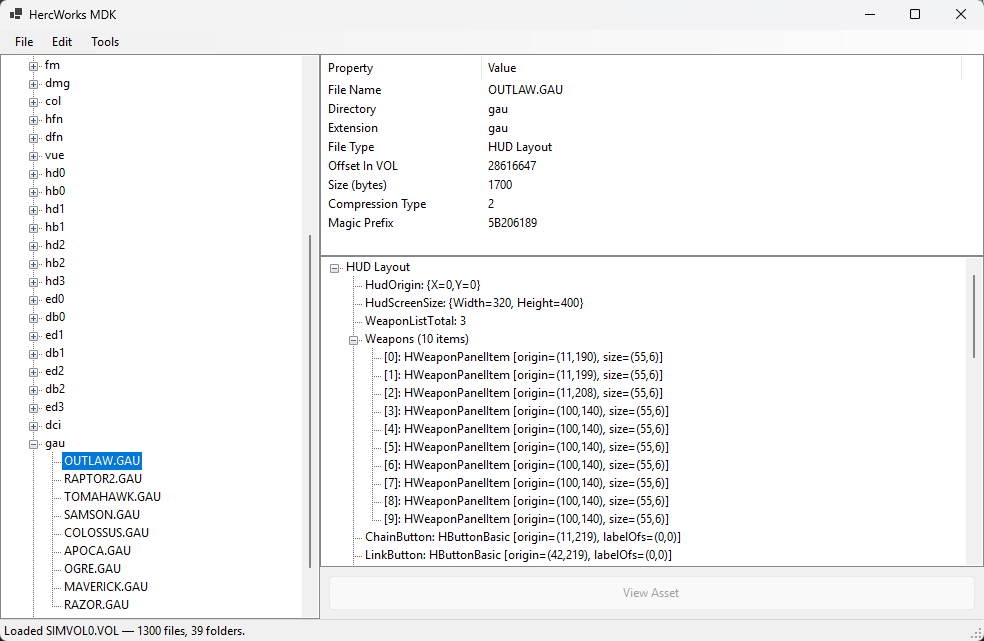
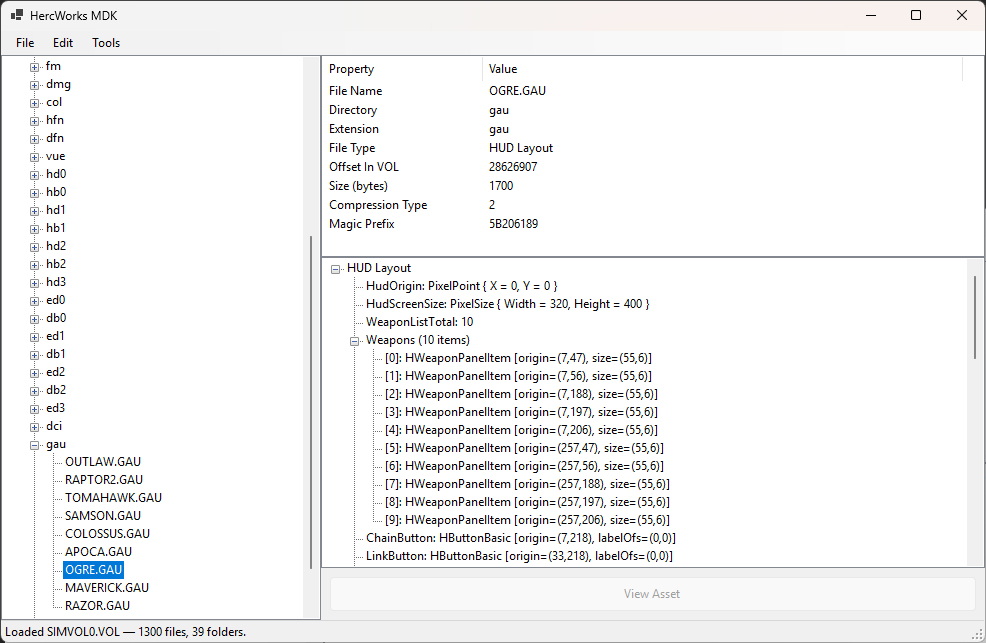
Updated README with screenshots (Kevin)

diff --git a/README.MD b/README.MD
@@ -1,10 +1,80 @@
-# HercWorks CSharp
+# The HERCULAN Engine
 
-This repository is a rewrite and extension of [herc-works-mdk](https://github.com/Subject9x/herc-works-mdk), originally by Subject9x. HercWorks has been rewritten in C#/.NET with Windows Forms GUI. The purpose of this project is to reverse-engineer the file formats used in the Windows 95 game _Earthsiege II_, developed by Dynamix and published by Sierra in 1996.
+The HERCULAN Engine is an effort to fully reverse-engineer the classic video game _[Earthsiege 2](https://en.wikipedia.org/wiki/Earthsiege_2)_ (developed by Dynamix and published by Sierra in 1996) and port it to modern operating systems. This engine is still in the very early stages of development; there is no specific development timetable.
 
-HercWorks CSharp builds upon the original Java library, fixing bugs, expanding the scope of the reverse-engineering work, and adding a graphical user interface. Unlike the original Java library, this repository does not support exporting data to JSON.
+## HercWorks CSharp
 
-I apologize to the Subject9x (developer of the original repository) for taking their work and continuing it in a completely different programming language; I just prefer C# and .NET to the Java ecosystem.
+A fundemental feature of the HERCULAN Engine is HercWorks CSharp, a toolset for viewing (and sometimes editing) data files from EarthSiege 2. HercWorks CSharp is a rewrite and extension of [herc-works-mdk](https://github.com/Subject9x/herc-works-mdk), originally by Subject9x. HercWorks has been rewritten in C#/.NET. HercWorks CSharp builds upon the original Java library, fixing bugs, expanding the scope of the reverse-engineering work, and adding a graphical user interface built with Windows Forms. Unlike the original Java library, this repository currently does not support exporting data to JSON.
+
+My great thanks to Subject9x (developer of the original repository) and any contributors (e.g. the Starsiege Community) for the initial reverse-engineering work that has made this possible. Also, I apologize for taking their work and continuing it in a completely different programming language!
+
+## The engine
+
+The HERCULAN Engine is intended to eventually be a playable cross-platform modern port of _Earthsiege 2_. Unlike many classic games which have been ported to modern operating systems, such as _Doom_, the source code for Earthsiege 2 has never been released. This means the HERCULAN Engine is not simply a matter of taking the original code and updating it for modern systems; instead, the game logic in its entirety has to be reconstructed through reverse-engineering.
+
+### Using the engine
+
+Earthsiege 2 is a copyrighted work. While a legal owner of the copyright has previously released the game for free, I do not have a license to distribute the original game files and they are not included in this repository. To use the HERCULAN Engine, you will need a copy of the original game files, which you can acquire from abandonware websites or by purchasing an original retail CD-ROM. I am not aware of any digital marketplace that sells Earthsiege 2.
+
+## Screenshots
+
+<div align="center">
+  <figure>
+    <img src="Images/VOL%20Browser.png" alt="VOL Browser" width="400">
+    <p><em>HercWorks UI for browsing VOL archives</em></p>
+  </figure>
+</div>
+
+<div align="center">
+  <figure>
+    <img src="Images/Campaign%20Resources%20Editor.png" alt="Campaign Resources Editor" width="400">
+    <p><em>Campaign Resources Editor</em></p>
+  </figure>
+</div>
+
+<div align="center">
+  <figure>
+    <img src="Images/DTS%20Viewer.png" alt="DTS Viewer" width="400">
+    <p><em>DTS (3D model) Viewer</em></p>
+  </figure>
+</div>
+
+<div align="center">
+  <figure>
+    <img src="Images/Herc%20Stats%20Editor.png" alt="Herc Stats Editor" width="400">
+    <p><em>Herc Stats Editor</em></p>
+  </figure>
+</div>
+
+<div align="center">
+  <figure>
+    <img src="Images/Texture%20Viewer.png" alt="Texture Viewer" width="400">
+    <p><em>Texture Viewer</em></p>
+  </figure>
+</div>
+
+<div align="center">
+  <figure>
+    <img src="Images/Mission%20Editor.png" alt="Mission Editor" width="400">
+    <p><em>An early version of the HERCULAN Engine, displaying static content and a basic debugging interface that may eventually turn into a mission editor (no promises!)</em></p>
+  </figure>
+</div>
+
+## Project Structure
+
+- **`Herculan/`** — Main project directory
+  - **`HercWorksMDK.sln`** — Visual Studio solution for HercWorks CSharp (WinForms tool)
+  - **`HerculanEngine.sln`** — Visual Studio solution for the HERCULAN Engine
+  - **`src/`** — Source code for HercWorks CSharp and the HERCULAN Engine
+  - **`docs/`** — Technical documentation on file formats, reverse-engineering findings, and architecture
+- **`tools/`** — Utility scripts and plugins (e.g., Ghidra scripts for binary analysis)
+- **`Images/`** — Screenshots of the HercWorks UI and engine
+
+For details on specific reverse-engineering work and file format documentation, see the files in `Herculan/docs/`.
 
 ## AI Disclosure
-Development of HercWorks CSharp has been largely powered by Claude (with prompting and feedback from a human). AI-generated documentation and code may contain mistakes. See the accompanying LICENSE file for copyright information.
+Development of HercWorks CSharp has been largely powered by Claude (with prompting, testing, and feedback from a human). AI-generated documentation and code may contain mistakes. See the accompanying LICENSE file for copyright information.
+
+## License
+
+See the accompanying LICENSE file.
